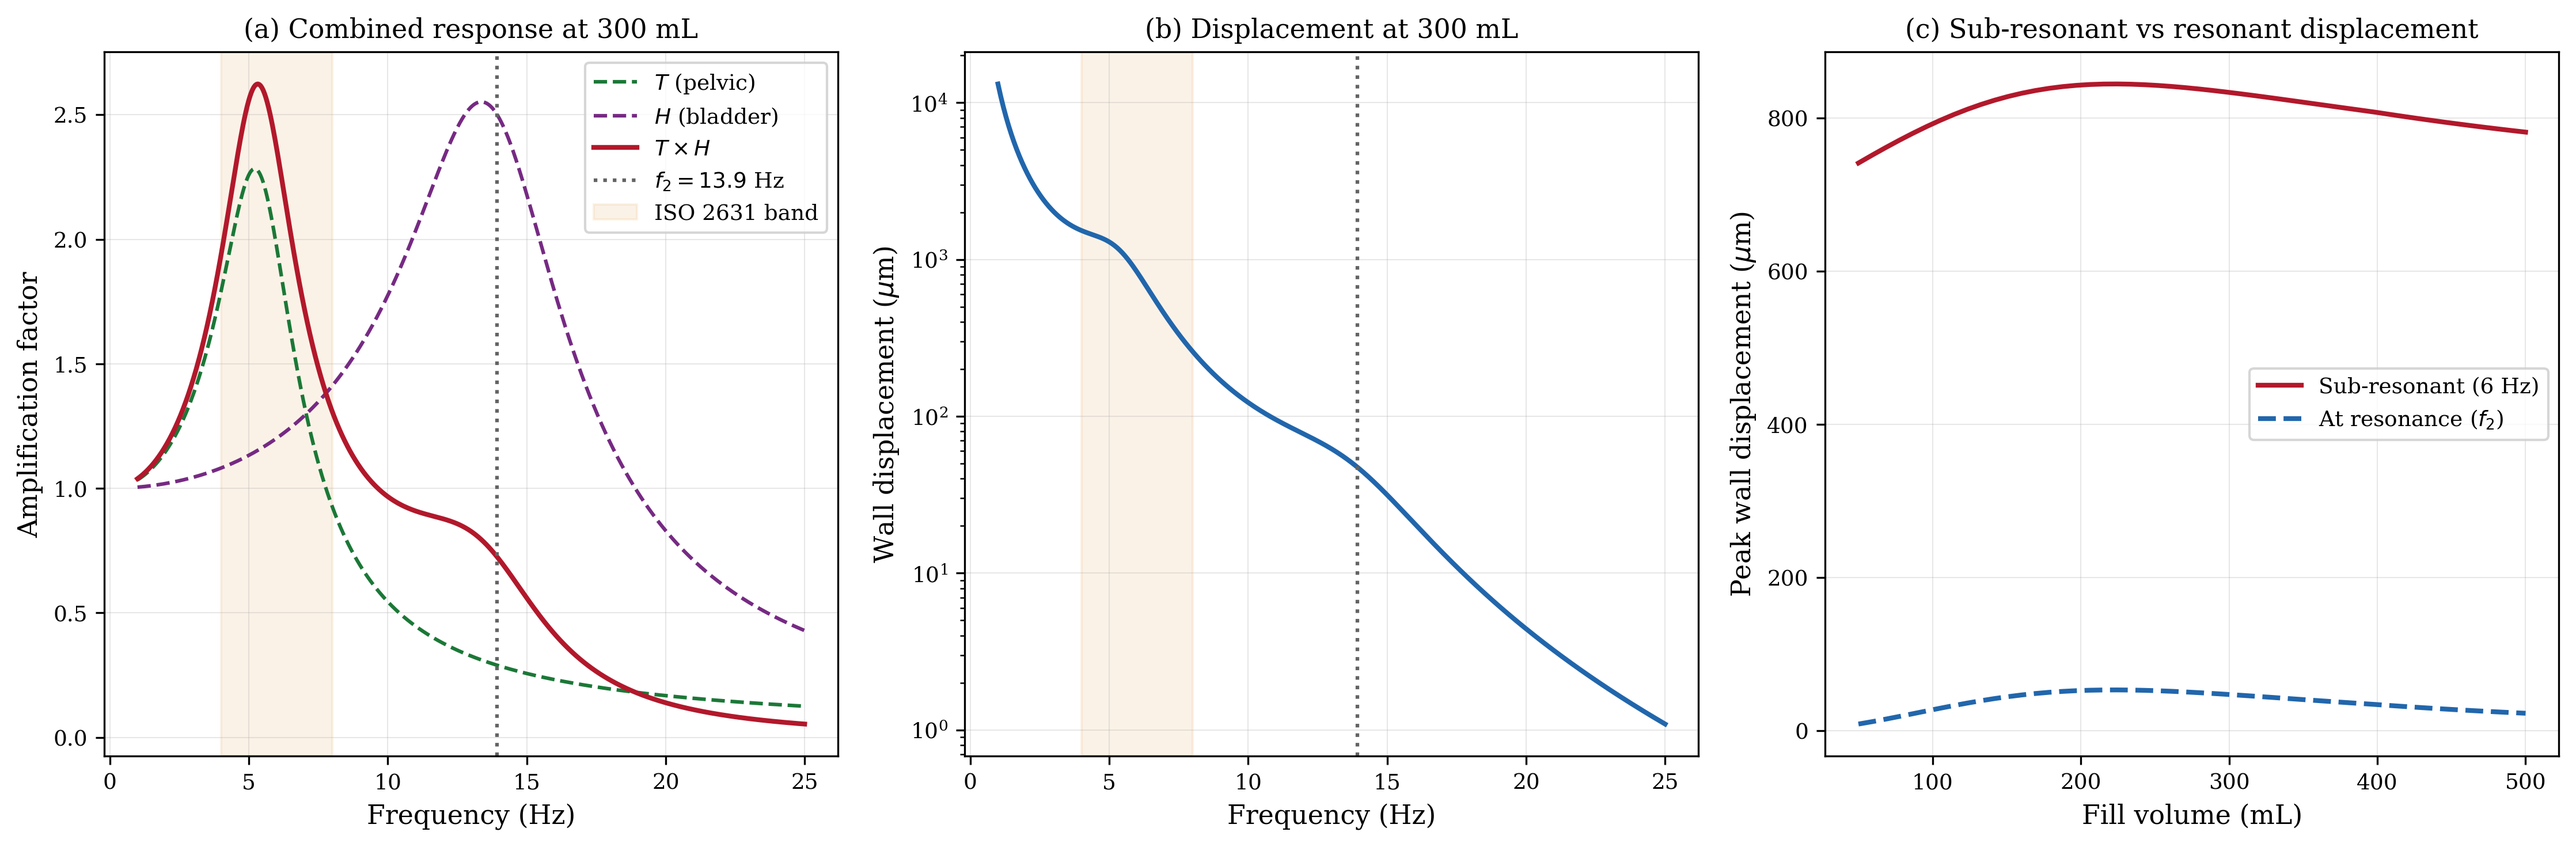
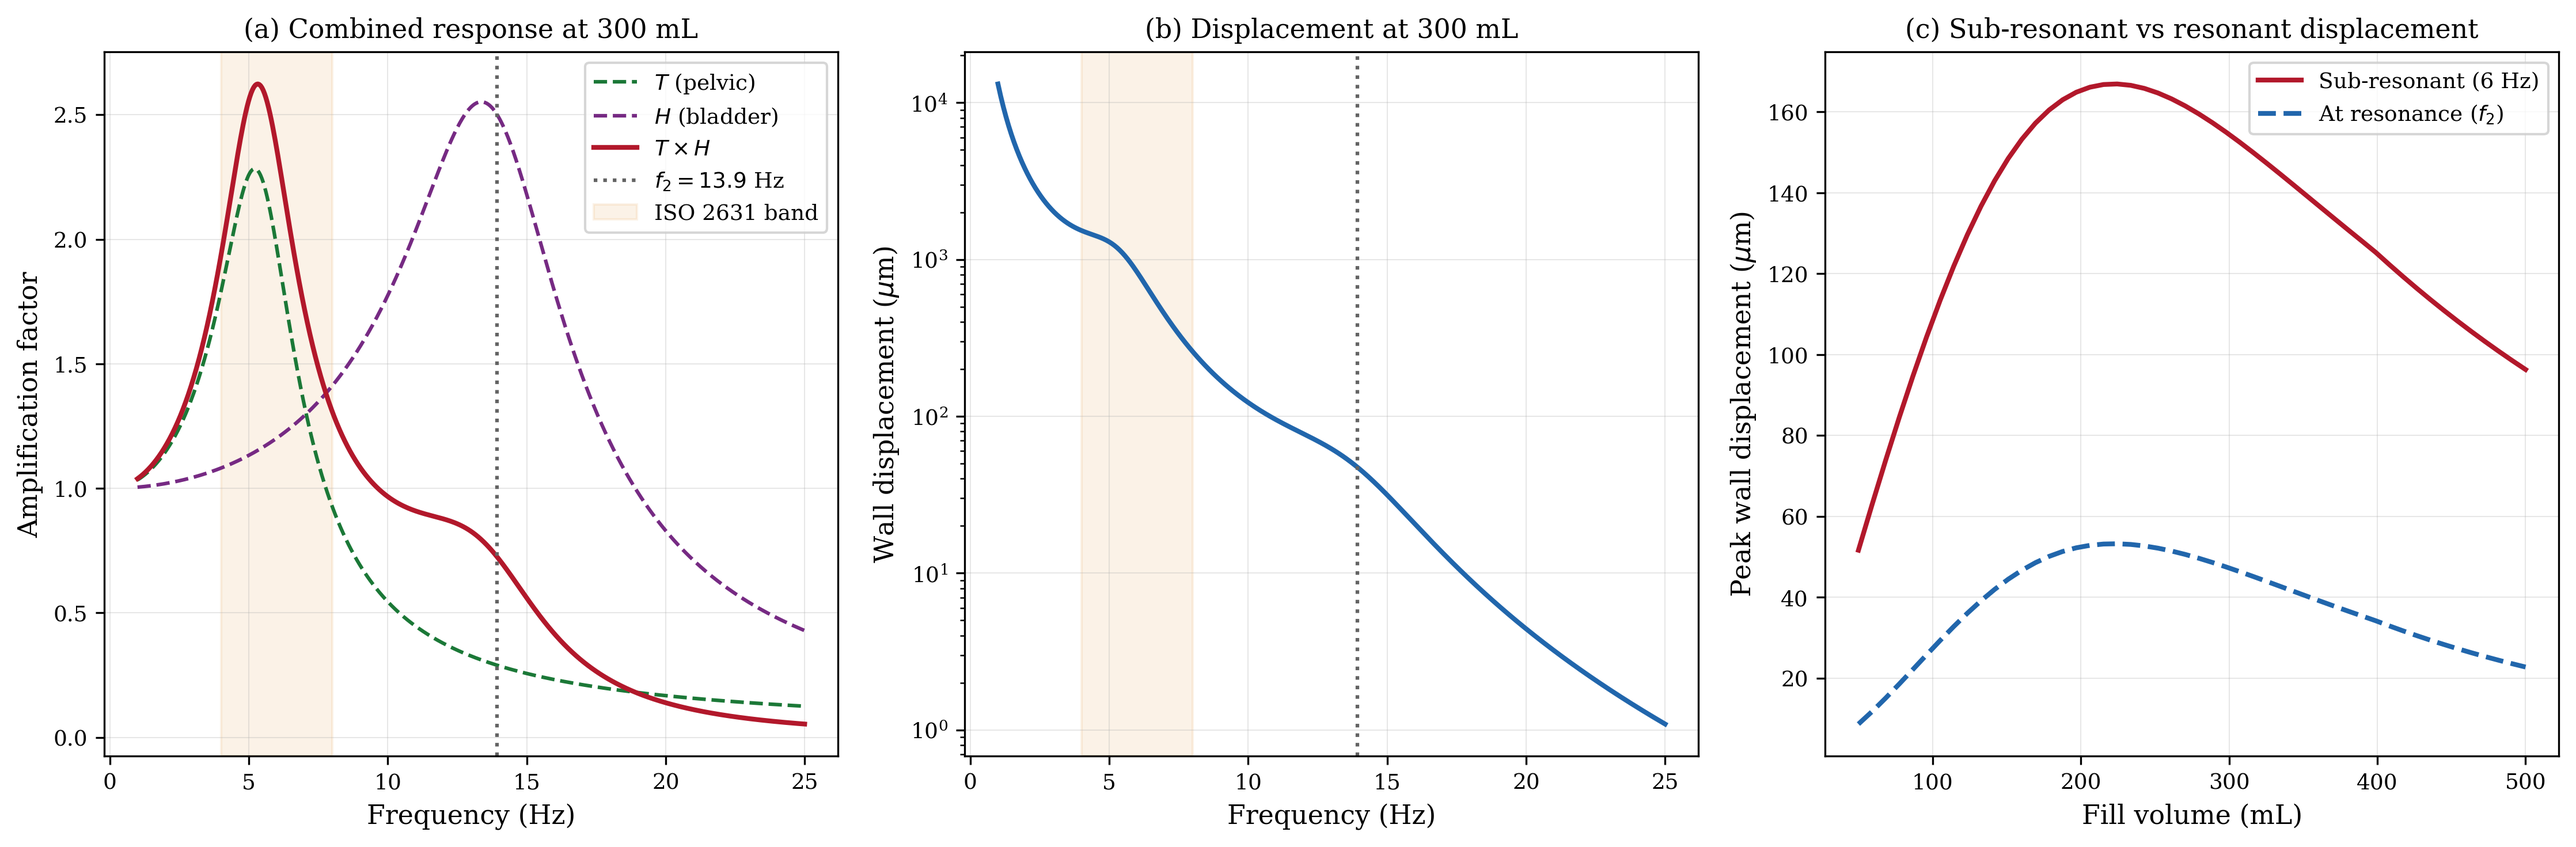
[paper] Paper 4: fix sub-resonant TF to relative displacement (Reviewer A R2) (#169)
- Code: H = r^2/|D(r)| (relative) instead of 1/|D(r)| (absolute)
- Text: fix H description from 'H ≈ 1.15' to relative ratio r^2/|D| ≈ 0.22
- Regenerate fig_sub_resonant_response with correct relative displacements
- Values now consistent: ~160 um sub-resonant, ~47 um at-resonance, 3-4x ratio
- 31 bladder tests + 206 repo tests pass

diff --git a/projects/bladder-resonance/paper/sections/results.tex b/projects/bladder-resonance/paper/sections/results.tex
@@ -289,8 +289,8 @@ displacement amplitude at \SI{6}{\hertz} is
 $y_\mathrm{seat} = a/(2\pi f)^2 \approx \SI{350}{\micro\metre}$.  Through
 the pelvic skeleton at peak transmissibility ($T \approx 2.0$), this delivers
 $y_\mathrm{pelvis} \approx \SI{700}{\micro\metre}$ to the bladder base.
-The sub-resonant bladder amplification at $r \approx 0.43$ is
-$H \approx 1.15$, giving a wall displacement of approximately
+The sub-resonant bladder \emph{relative} displacement ratio at $r \approx 0.43$ is
+$r^2/|D(r)| \approx 0.22$, giving a wall displacement of approximately
 \SI{160}{\micro\metre}.
 
 By contrast, at the bladder resonance frequency

diff --git a/projects/bladder-resonance/bladder_model.py b/projects/bladder-resonance/bladder_model.py
@@ -479,9 +479,9 @@ def sub_resonant_analysis(volumes=None, f_wbv=6.0, a_seat=0.5):
         f2_vals.append(f2)
         zeta = model.damping_ratio
 
-        # Sub-resonant forced response at f_wbv
+        # Sub-resonant forced response at f_wbv (relative displacement)
         r_b = f_wbv / f2
-        H_wbv = 1 / np.sqrt((1 - r_b ** 2) ** 2 + (2 * zeta * r_b) ** 2)
+        H_wbv = r_b ** 2 / np.sqrt((1 - r_b ** 2) ** 2 + (2 * zeta * r_b) ** 2)
         y_wbv = y_seat_wbv * T_wbv * H_wbv
         y_wall_wbv.append(y_wbv)
         TH_wbv_vals.append(T_wbv * H_wbv)
